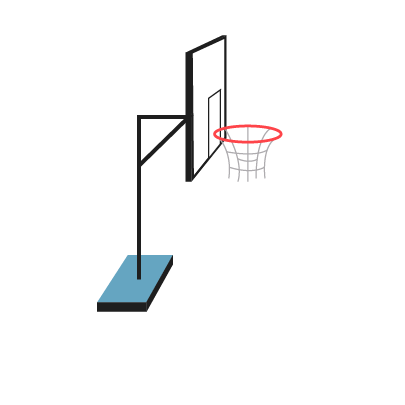
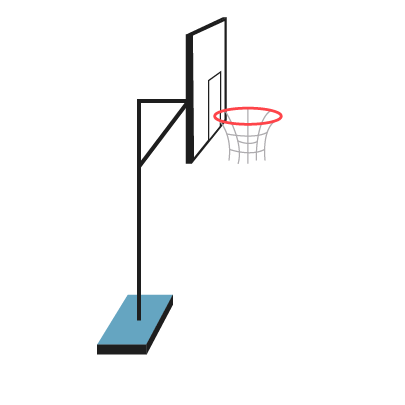
Add files via upload

Changed region(s): [[0.3259, 0.0296, 0.7111, 0.4444], [0.237, 0.6222, 0.4444, 0.8889]]

diff --git a/Player.java b/Player.java
@@ -1,0 +1,43 @@
+import java.awt.Graphics;
+import java.awt.Graphics2D;
+import java.awt.Image;
+import java.awt.Toolkit;
+import java.io.File;
+
+import javax.swing.ImageIcon;
+import javax.swing.JPanel;
+
+public class Player extends JPanel {
+
+	// x and y location for board
+	private int x, y;
+
+	// img variable that will contain board image
+	private Image img;
+
+	public Player(String filename) {
+		// sets up board image to be drawn
+		String src = new File("").getAbsolutePath() + "/src/";
+		ImageIcon ast = new ImageIcon(src + filename);
+
+		this.x = 600;
+		this.y = 300;
+		img = getImg(filename);
+
+	}
+
+	// method that allows board to be painted in the paint method
+	// as opposed to simply being added into the frame
+	public void paint(Graphics g) {
+		Graphics2D g2 = (Graphics2D) g;
+		g2.drawImage(img, x, y, this);
+	}
+
+	// getter for the image
+	private Image getImg(String path) {
+
+		img = Toolkit.getDefaultToolkit().getImage(path);
+		return img;
+	}
+
+}

diff --git a/Driver.java b/Driver.java
@@ -14,6 +14,7 @@ public class Driver extends JPanel implements ActionListener, KeyListener { //ad
 	
 	Court court;
 	Hoops right, left;
+	Player Player1;
 	int screen_width = 1350;
 	int screen_height = 660;
 	
@@ -24,6 +25,7 @@ public class Driver extends JPanel implements ActionListener, KeyListener { //ad
 		court.paint(g);
 		right.paint(g);
 		left.paint(g);
+		Player1.paint(g);
 	}
 	public void update() {
 
@@ -57,6 +59,7 @@ public class Driver extends JPanel implements ActionListener, KeyListener { //ad
 		court = new Court("basketballCourt.png");
 		right = new Hoops("rightHoop.png", "right");
 		left = new Hoops("leftHoop.png", "left");
+		Player1 = new Player("runn.png");
 		f.add(this);
 
 		// end creating objects

diff --git a/Hoops.java b/Hoops.java
@@ -43,12 +43,12 @@ public class Hoops extends JPanel {
 		
 		if(side.equals("right")) {
 			this.x = 1040;
-			this.y = 68;
+			this.y = 28;
 		}
 		
 		if(side.equals("left")) {
 			this.x = -70;
-			this.y = 68;
+			this.y = 28;
 		}
 		img = getImg(filename);
 		
